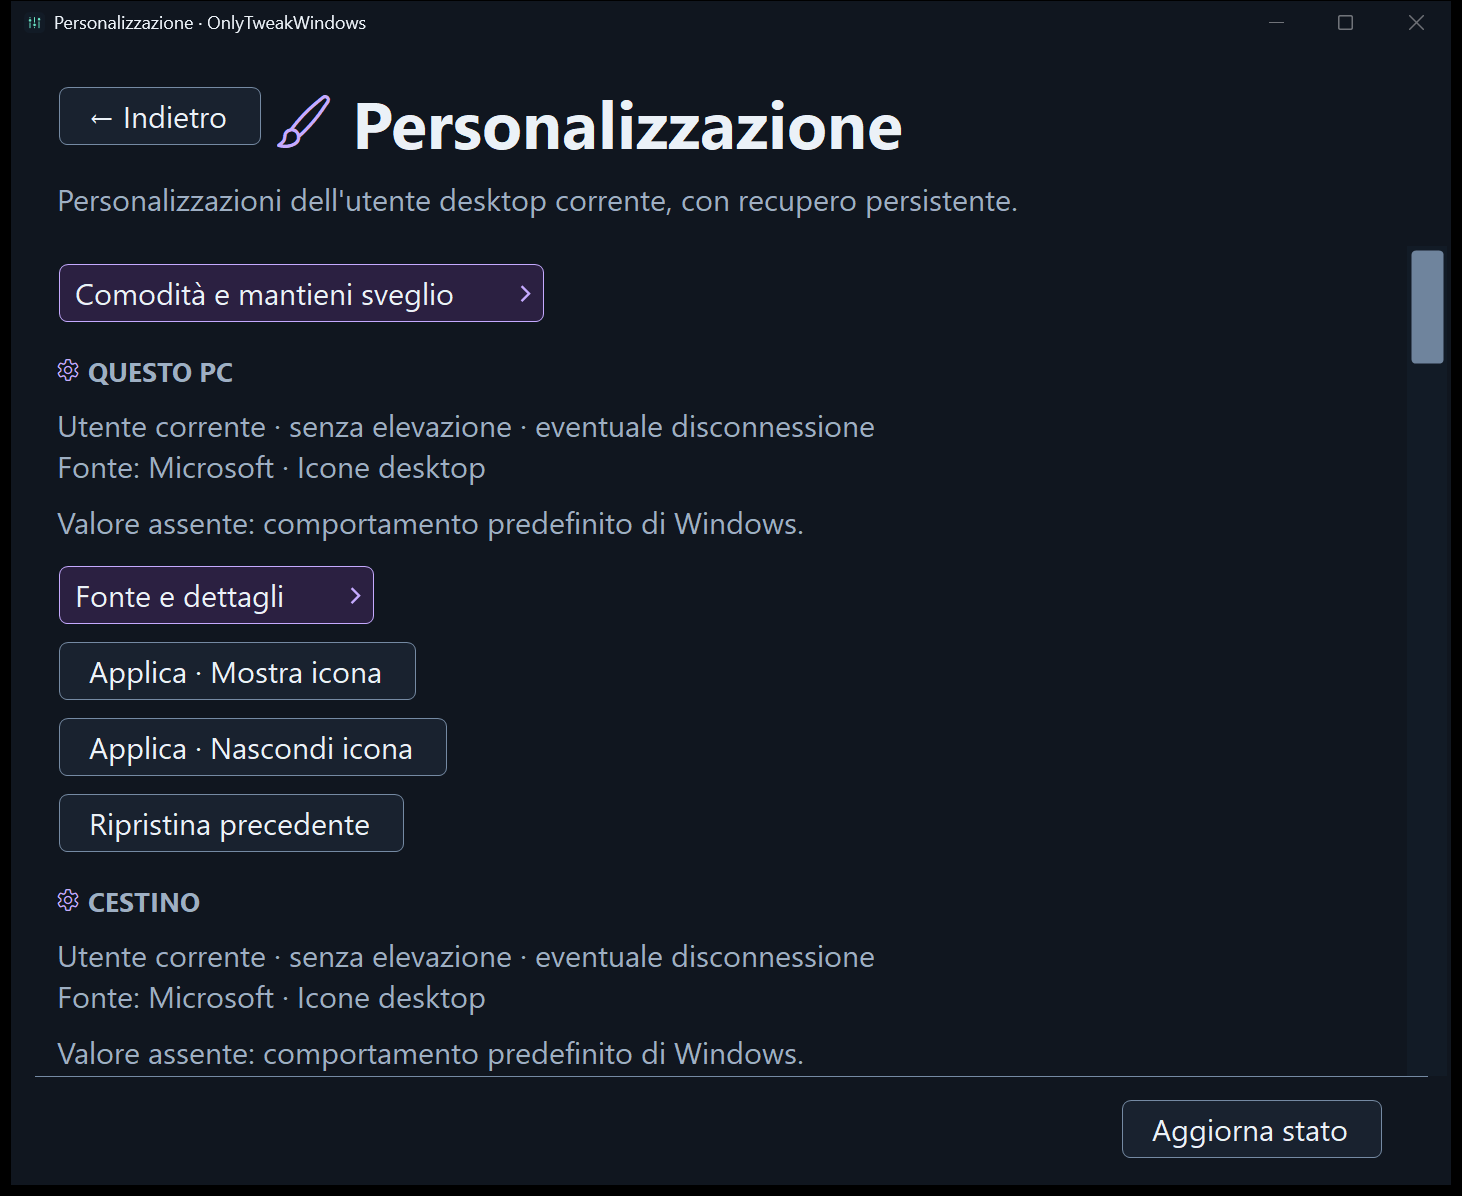
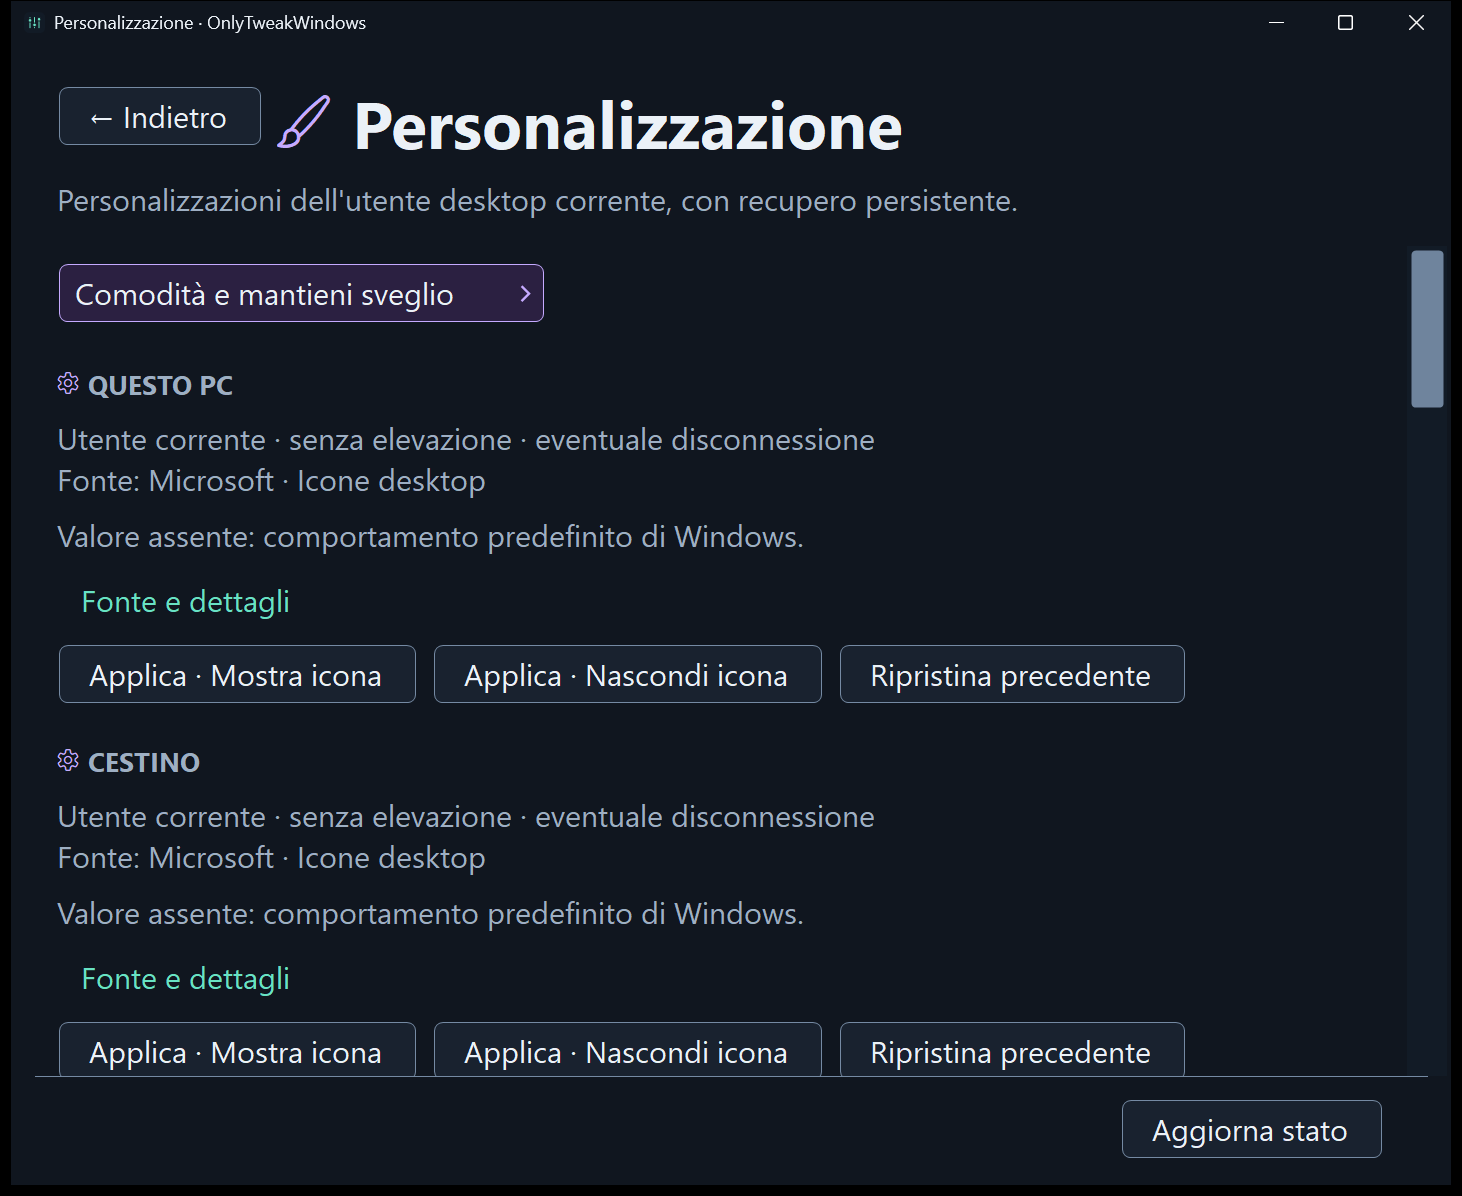
ui: clarify action hierarchy on guided and tweak pages
Group Apply/Restore actions on one row, show "Fonte e dettagli" as a
quiet text link, and use a filled primary button for the single Apply
action on Gaming preferences. Add PrimaryButton, QuietButton and
ActionRow helpers. Refresh the Personalization screenshot.

diff --git a/src/RegistryTweaks.cs b/src/RegistryTweaks.cs
@@ -234,7 +234,8 @@ namespace OnlyTweakWindows
         internal TweakPage(AppServices app) : base("Personalizzazione","Personalizzazioni dell'utente desktop corrente, con recupero persistente.",Glyphs.Personalize,null,AppArea.Personalization)
         {
             StackPanel stack=new();Content.Controls.Add(stack);
-            stack.Controls.Add(Theme.NavigationButton("Comodità e mantieni sveglio",delegate {Navigation.Push(new ConveniencePage(app));}));
+            var convenience=Theme.NavigationButton("Comodità e mantieni sveglio",delegate {Navigation.Push(new ConveniencePage(app));});
+            convenience.Margin=new Padding(5,5,5,14); stack.Controls.Add(convenience);
             foreach(var definition in app.Tweaks.Definitions.OrderBy(d=>d.Id.StartsWith("desktop.") ? 0 : 1)) {
                 stack.Controls.Add(Theme.Section(definition.Title,Glyphs.Settings));
                 stack.Controls.Add(Theme.Label("Utente corrente · senza elevazione · eventuale disconnessione\n"+
@@ -242,19 +243,27 @@ namespace OnlyTweakWindows
                 Label state=Theme.Label("",Theme.Muted);stack.Controls.Add(state);
                 void Refresh() {try {state.Text=app.Tweaks.Describe(definition.Id);} catch(Exception ex) {state.Text="Stato sconosciuto: "+ex.Message;}}
                 refreshers.Add(Refresh);Refresh();
-                stack.Controls.Add(Theme.NavigationButton("Fonte e dettagli",delegate {
+                if(definition.Id=="classic") stack.Controls.Add(Theme.Label("Tweak non ufficiale: l'effetto dipende dalla build Windows 11.",Theme.Warning));
+                // Gerarchia: Applica (primaria) · Ripristina (secondaria) · Fonte e dettagli (terziaria), su una sola riga.
+                var actions=new List<Button>();
+                foreach(bool? enabled in new bool?[] {true,false,null}) {
+                    bool? choice=enabled;string title=choice.HasValue ? "Applica · "+(choice.Value ? definition.On : definition.Off) : "Ripristina precedente";
+                    EventHandler run=async delegate {
+                        try {await OperationDialog.Open(this,app,app.Tweaks.Action(definition.Id,choice));}
+                        catch(Exception ex) {SetFeedback(ex.Message);}
+                    };
+                    // Le due scelte Applica sono alternative di pari peso: il riempimento resta per l'unica azione primaria di una sezione.
+                    actions.Add(Theme.Button(title,run));
+                }
+                // Il link informativo precede le azioni: la riga sotto contiene solo ciò che modifica Windows.
+                var source=Theme.QuietButton("Fonte e dettagli",delegate {
                     Navigation.Push(new TextDialog(definition.Title,"Fonte sulla funzione Windows:\n"+definition.Source+
                         "\n\nLa scrittura diretta del registro richiede verifica sulla build in uso; la fonte non certifica il workaround.\n"+
                         "Ambito: utente corrente. Potrebbe essere necessaria la disconnessione."));
-                }));
-                if(definition.Id=="classic") stack.Controls.Add(Theme.Label("Tweak non ufficiale: l'effetto dipende dalla build Windows 11.",Theme.Warning));
-                foreach(bool? enabled in new bool?[] {true,false,null}) {
-                    bool? choice=enabled;string title=choice.HasValue ? "Applica · "+(choice.Value ? definition.On : definition.Off) : "Ripristina precedente";
-                    stack.Controls.Add(Theme.Button(title,async delegate {
-                        try {await OperationDialog.Open(this,app,app.Tweaks.Action(definition.Id,choice));}
-                        catch(Exception ex) {SetFeedback(ex.Message);}
-                    }));
-                }
+                });
+                source.Margin=new Padding(0,0,0,4);
+                stack.Controls.Add(source);
+                stack.Controls.Add(Theme.ActionRow(actions.ToArray()));
 
             }
             Footer.Controls.Add(Theme.Button("Aggiorna stato",delegate {ResumePage();}));

diff --git a/src/ConsumerPages.cs b/src/ConsumerPages.cs
@@ -40,10 +40,9 @@ namespace OnlyTweakWindows
             });
             button.Enabled=app.OS.Build>=item.MinimumBuild && app.Availability.Target(item.Target);
             if(!button.Enabled) state.Text="Non disponibile su questa versione o installazione Windows.";
-            stack.Controls.Add(button);
-            stack.Controls.Add(Theme.NavigationButton("Fonte e dettagli",delegate {
+            stack.Controls.Add(Theme.ActionRow(button,Theme.QuietButton("Fonte e dettagli",delegate {
                 page.Navigation.Push(new TextDialog(item.Title,item.Description+"\n\nFonte Microsoft:\n"+item.Source+"\n\n"+item.State));
-            }));
+            })));
         }
     }
     internal sealed class ConveniencePage : DarkPage
@@ -90,21 +89,25 @@ namespace OnlyTweakWindows
             void Refresh() {try {status.Text="Stato: "+app.Preferences.Describe(id);} catch(Exception ex) {status.Text="Stato sconosciuto: "+ex.Message;}}
             refreshers.Add(Refresh);
             Refresh();
-            sections.Controls.Add(Theme.NavigationButton("Fonte e dettagli",delegate {
+            var actions=new List<Button>();
+            foreach(bool restore in new[]{false,true}) {
+                bool undo=restore;
+                EventHandler run=async delegate {
+                    try {
+                        string value=undo ? null : choice();if(!undo && value==null) throw new InvalidOperationException("Seleziona un piano disponibile.");
+                        await OperationDialog.Open(this,app,app.Preferences.Action(id,value));Refresh();
+                    } catch(Exception ex) {SetFeedback(ex.Message);}
+                };
+                actions.Add(undo ? Theme.Button("Ripristina precedente",run) : Theme.PrimaryButton("Applica",run));
+            }
+            actions.Add(Theme.QuietButton("Fonte e dettagli",delegate {
                 Navigation.Push(new TextDialog(id=="power" ? "Piano energetico" : "Animazioni Windows",
                     "API Microsoft utilizzata per lettura e modifica:\n"+(id=="power" ?
                     "https://learn.microsoft.com/en-us/windows/win32/api/powersetting/nf-powersetting-powersetactivescheme" :
                     "https://learn.microsoft.com/en-us/windows/win32/api/winuser/nf-winuser-systemparametersinfow")+
                     "\n\nCheckpoint persistente dello stato precedente. Nessuna modifica ai parametri interni dei piani energetici."));
             }));
-            foreach(bool restore in new[]{false,true}) {
-                bool undo=restore;sections.Controls.Add(Theme.Button(undo ? "Ripristina precedente" : "Applica",async delegate {
-                    try {
-                        string value=undo ? null : choice();if(!undo && value==null) throw new InvalidOperationException("Seleziona un piano disponibile.");
-                        await OperationDialog.Open(this,app,app.Preferences.Action(id,value));Refresh();
-                    } catch(Exception ex) {SetFeedback(ex.Message);}
-                }));
-            }
+            sections.Controls.Add(Theme.ActionRow(actions.ToArray()));
         }
     }
     internal sealed class AwakePage : DarkPage

diff --git a/src/Theme.cs b/src/Theme.cs
@@ -62,6 +62,19 @@ namespace OnlyTweakWindows
             button.Padding=new Padding(16,8,16,8); button.Margin=new Padding(0,0,0,10); button.UseMnemonic=false;
             return button;
         }
+        // Gerarchia delle azioni: primaria (riempita) per ciò che modifica, secondaria per ripristino/alternative,
+        // terziaria (testo) per informazioni. Il testo scuro su Accent supera 4.5:1.
+        public static Button PrimaryButton(string text,EventHandler clicked)
+        { var button=Button(text,clicked); button.BackColor=Accent; button.ForeColor=Background; button.Font=new Font("Segoe UI",10F,FontStyle.Bold); return button; }
+        public static Button QuietButton(string text,EventHandler clicked)
+        { var button=(DarkButton)Button(text,clicked); button.Quiet=true; button.Padding=new Padding(0,0,0,0); return button; }
+        // Riga di azioni affiancate: evita la pila verticale di pulsanti di pari peso.
+        public static FlowLayoutPanel ActionRow(params Button[] buttons)
+        {
+            var row=new FlowLayoutPanel { AutoSize=true,AutoSizeMode=AutoSizeMode.GrowAndShrink,WrapContents=true,FlowDirection=FlowDirection.LeftToRight,
+                BackColor=Background,Margin=new Padding(0,0,0,6) };
+            row.Controls.AddRange(buttons); return row;
+        }
         public static Button NavigationButton(string text,EventHandler clicked,AppArea? area=null)
         {
             var button=(DarkButton)Button(text,clicked); button.OpensArea=true; button.Area=area;
@@ -192,6 +205,8 @@ namespace OnlyTweakWindows
         public string Description,Glyph;
         public bool Caution;
         public bool OpensArea;
+        // Azione terziaria: testo accentato senza superficie né bordo finché non è in hover, premuta o attiva da tastiera.
+        public bool Quiet;
         public AppArea? Area;
         internal Color FocusColor=Theme.Accent;
         public Color GlyphColor=Theme.Muted;
@@ -233,9 +248,9 @@ namespace OnlyTweakWindows
             using (GraphicsPath shape=Theme.Round(new Rectangle(1,1,Width-3,Height-3),8))
             using (SolidBrush fill=new SolidBrush(background))
             using (Pen border=new Pen(Enabled&&(OpensArea||Caution||Focused||hovered) ? emphasis : Theme.Border))
-            { e.Graphics.FillPath(fill,shape); e.Graphics.DrawPath(border,shape); }
+            { if (!Quiet||hovered||pressed||Focused) { e.Graphics.FillPath(fill,shape); e.Graphics.DrawPath(border,shape); } }
             Rectangle text=new Rectangle(Padding.Left+10,Padding.Top+3,Math.Max(1,Width-Padding.Horizontal-20),Math.Max(1,Height-Padding.Vertical-6));
-            Color color=Enabled ? ForeColor : Theme.Muted;
+            Color color=Enabled ? (Quiet ? Theme.Accent : ForeColor) : Theme.Muted;
             if(OpensArea) {
                 float scale=VisualScale,x=Width-Padding.Right-12*scale,y=Height/2F;
                 using(var pen=new Pen(Enabled ? emphasis : Theme.Muted,1.6F*scale))
